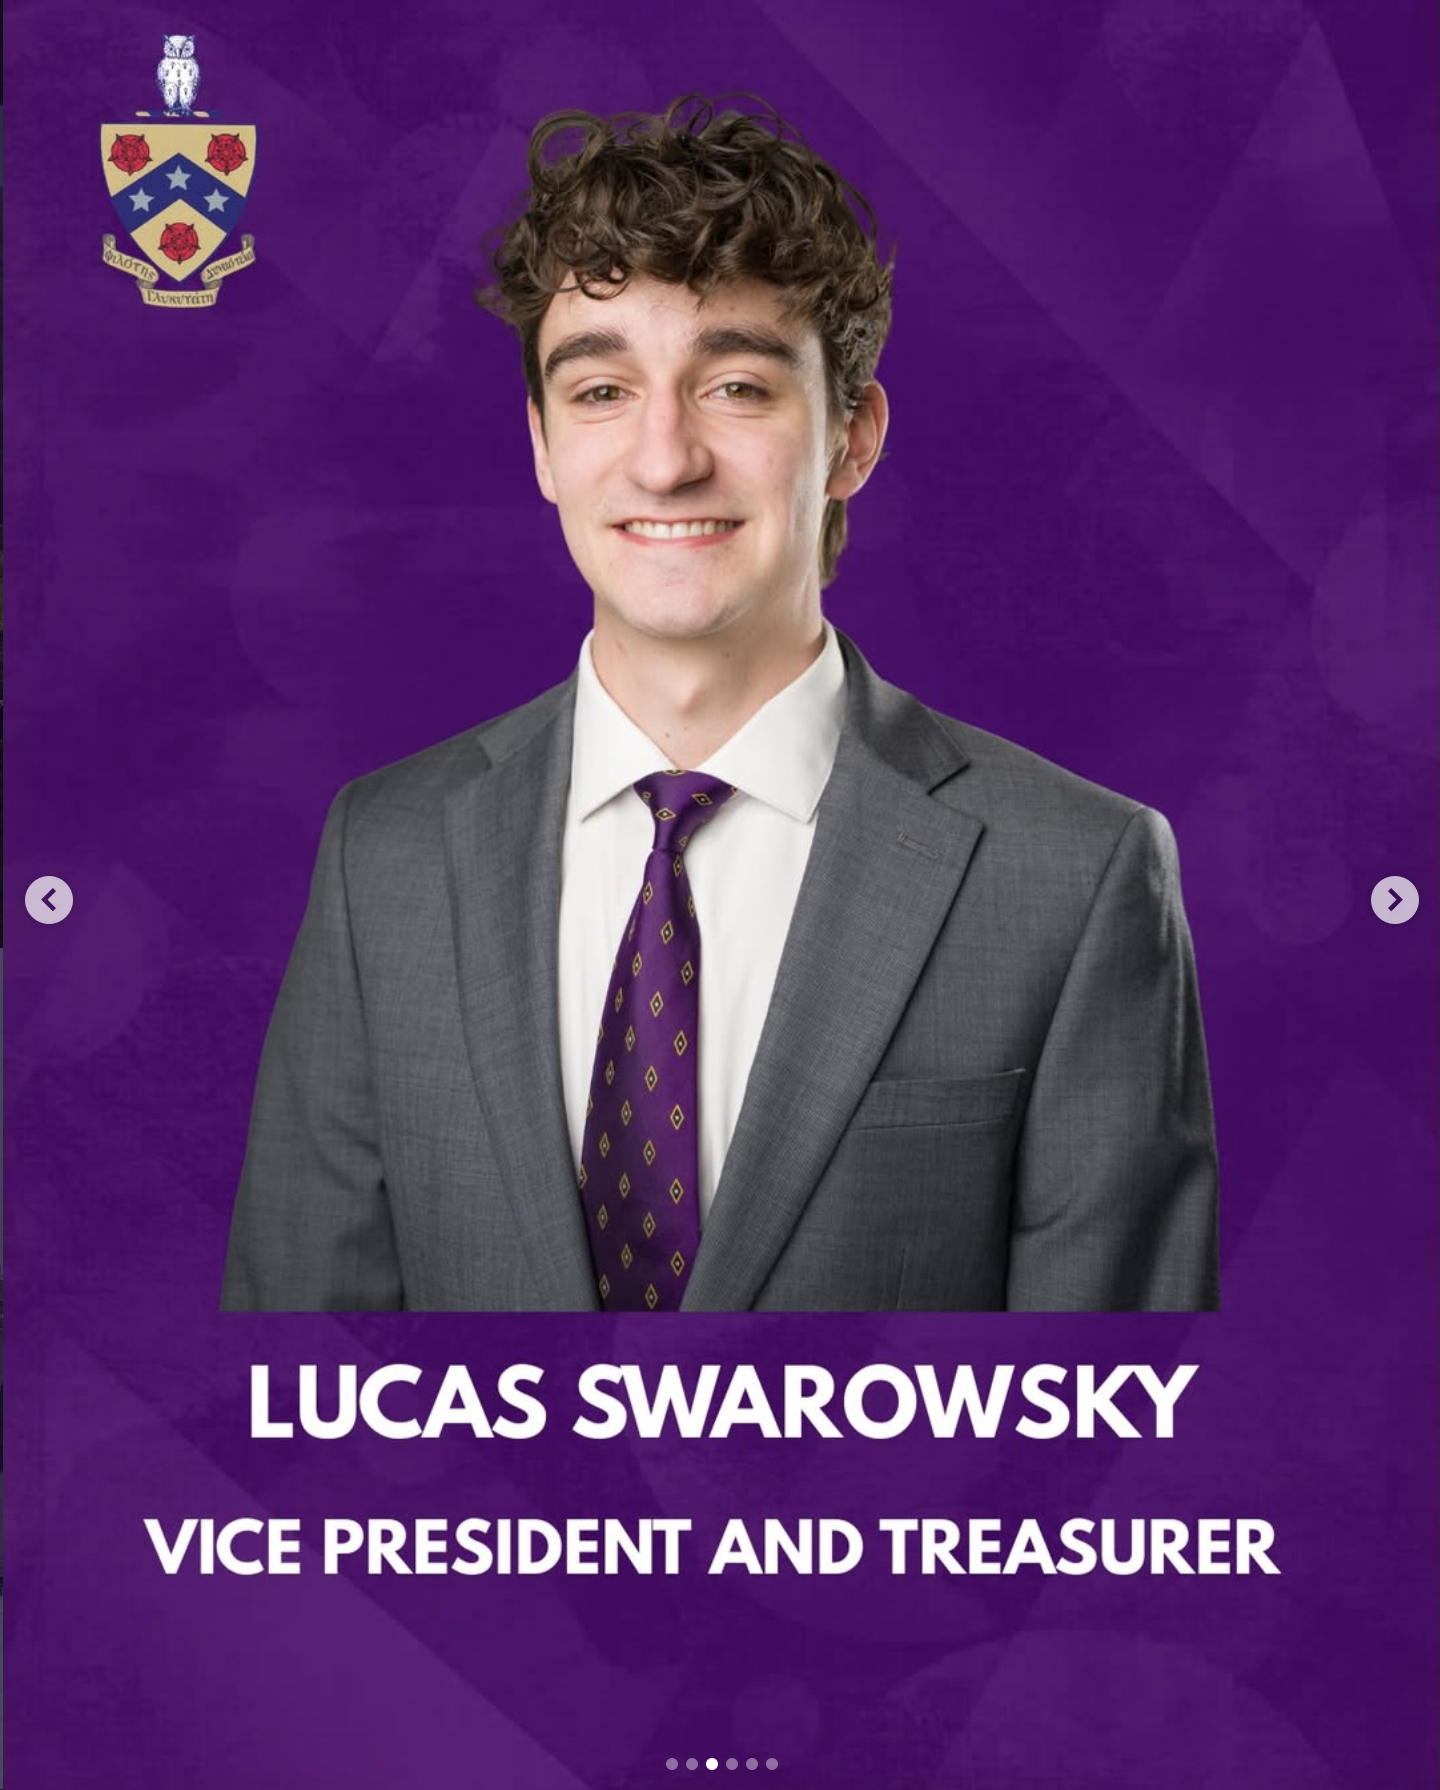
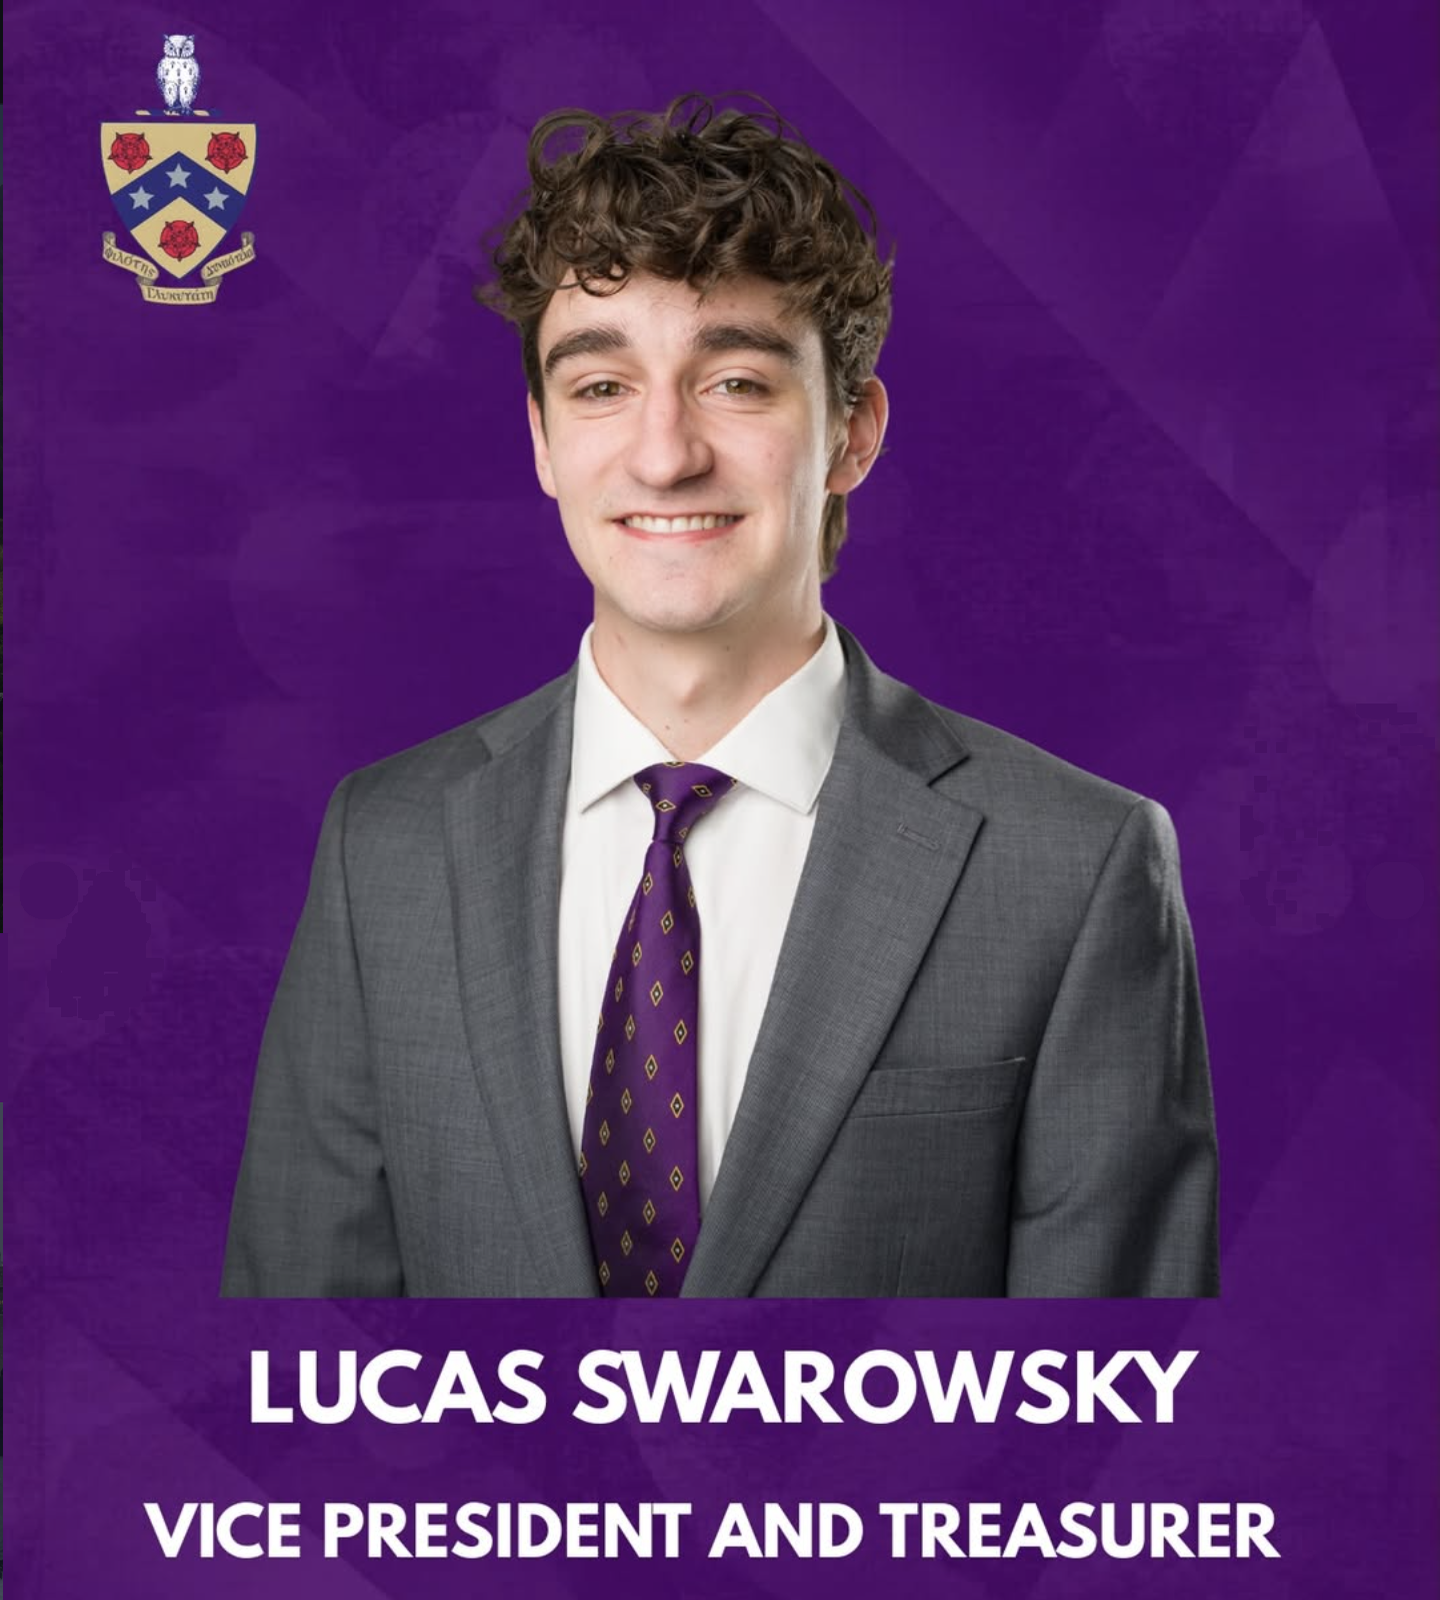
Brothers: remove baked-in carousel arrows/dots, uniform 1440x1600, larger cards

diff --git a/app/page.js b/app/page.js
@@ -424,7 +424,7 @@ export default function Home() {
             flexWrap: "wrap",
             justifyContent: "center",
             gap: "20px",
-            width: "min(1200px, 94vw)",
+            width: "min(1400px, 96vw)",
           }}
         >
           {BROTHERS.map((b) => (
@@ -433,7 +433,7 @@ export default function Home() {
               src={encodeURI(b.src)}
               alt={b.name}
               style={{
-                width: "min(220px, 60vw)",
+                width: "min(260px, 42vw)",
                 borderRadius: "12px",
                 display: "block",
               }}
